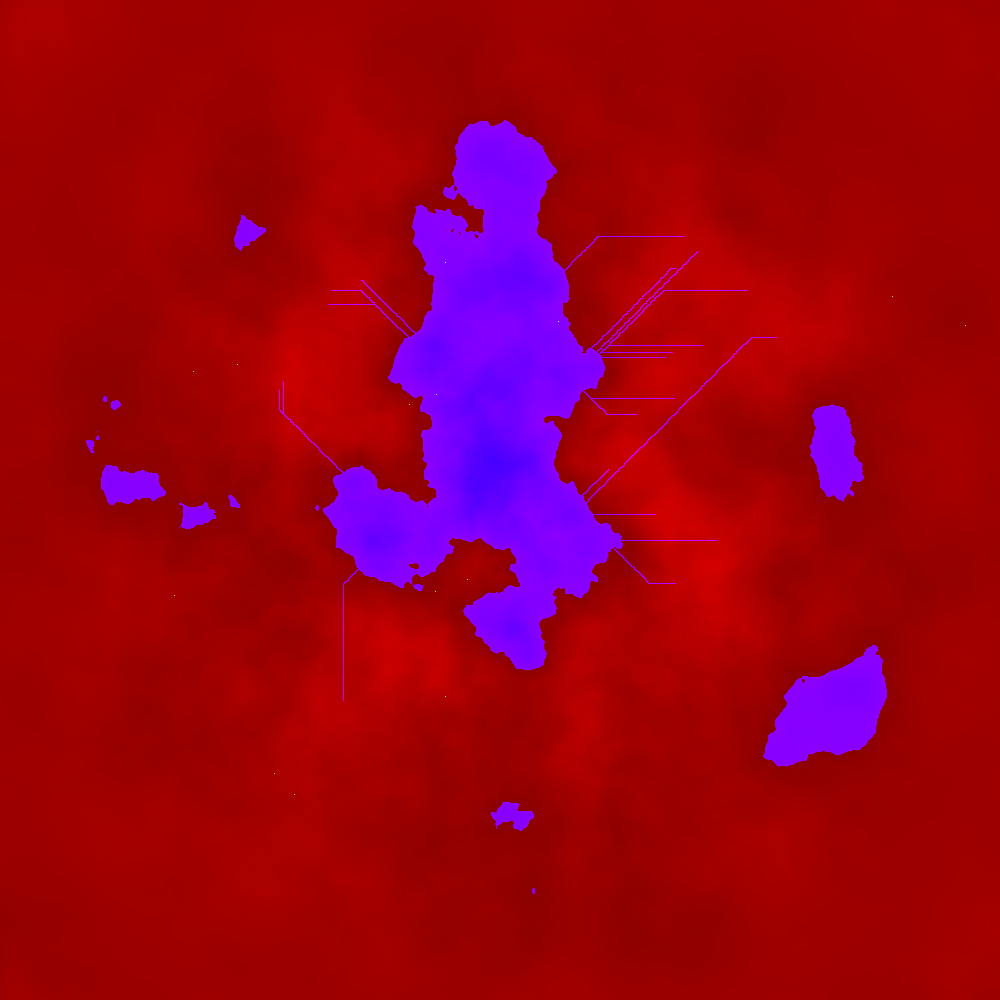
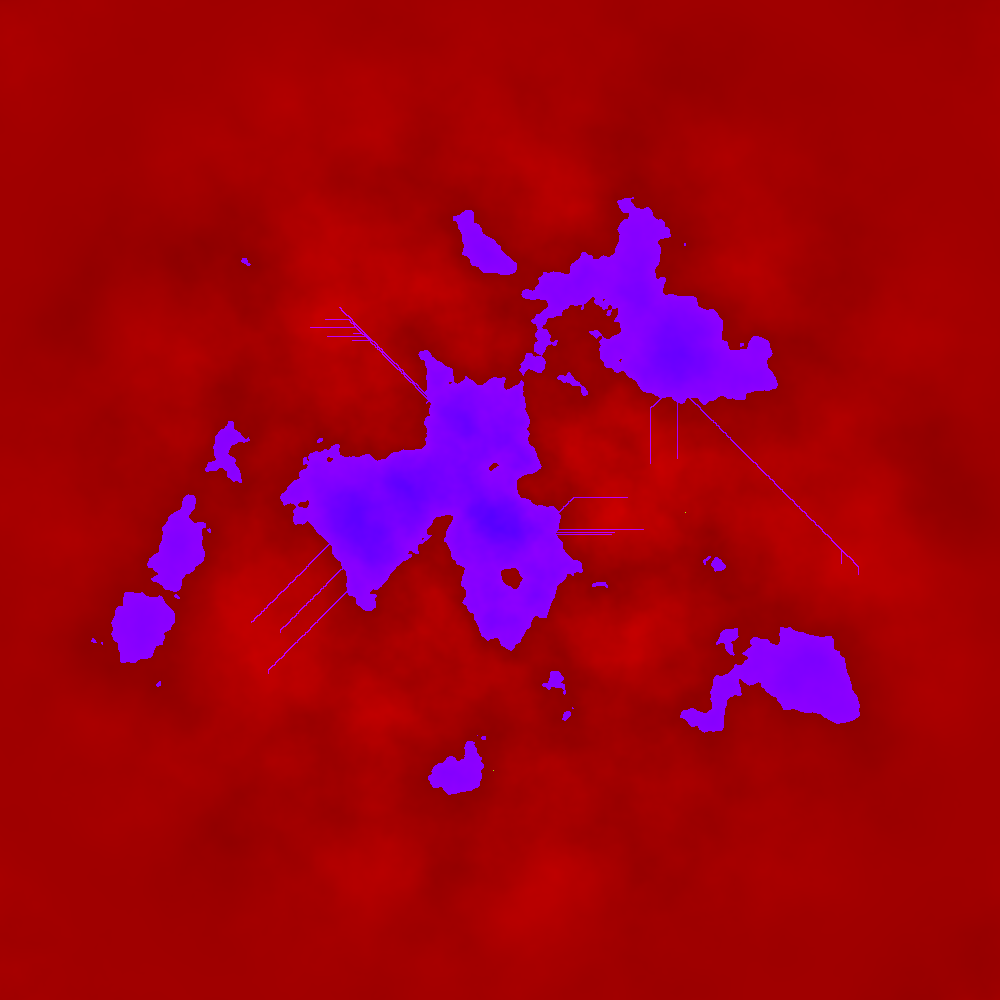
The Terrain Generator has been glued
Connected in THEGLUE.py

diff --git a/Train Simulation/Python/image_generation/terrainGeneration.py b/Train Simulation/Python/image_generation/terrainGeneration.py
@@ -127,6 +127,7 @@ def generate_rivers(terrain, num_rivers, river_threshold):
 def generate_population(terrain, rivers, num_clusters, growth_steps, growth_probability):
     print("Generating Population...")
     height, width = terrain.shape
+    global population
     population = np.zeros((height, width))
     
     i = 0
@@ -199,101 +200,126 @@ def prep_world(world):
     return world
 
 
-#importing settings from Godot
+def main():
+    #importing settings from Godot
 
-# COMMENT OUT 205 FOR VSCODE, WHEN USING COMMAND PROMPT, COMMENT ABOUT 206
-thisPath = os.getcwd()
-#thisPath = os.getcwd() + "\\Desktop\\Documents\\GitHub\\Train-Simulator\\Train Simulation\\Python\\image_generation"
+    # COMMENT OUT 205 FOR VSCODE, WHEN USING COMMAND PROMPT, COMMENT ABOUT 206
+    thisPath = os.getcwd()
+    #thisPath = os.getcwd() + "\\Desktop\\Documents\\GitHub\\Train-Simulator\\Train Simulation\\Python\\image_generation"
 
-loadingFile = open(os.path.abspath(os.path.join(thisPath, os.pardir)) + "\\loadingCommunication.txt", "w")
-loadingFile.write("")
-loadingFile.close()
+    loadingFilePath = os.path.expanduser( "~" ) + "\\AppData\\Roaming\\Godot\\app_userdata\\Train Simulation\\loadingCommunication.bin"
+    
+    loadingFile = open(loadingFilePath, "w")
+    loadingFile.write("")
+    loadingFile.close()
 
-file = open("C:\\Users\\bbsaw\\AppData\\Roaming\\Godot\\app_userdata\\Train Simulation\\settings.bin")
-settings = json.load(file)
+    file = open("C:\\Users\\bbsaw\\AppData\\Roaming\\Godot\\app_userdata\\Train Simulation\\settings.bin")
+    global settings
+    settings = json.load(file)
 
-file.close()
+    file.close()
 
-loadingFile = open(os.path.abspath(os.path.join(thisPath, os.pardir)) + "\\loadingCommunication.txt", "a")
-loadingFile.write("0")
-loadingFile.close()
+    # loadingFile = open(loadingFilePath, "a")
+    # loadingFile.write("0")
+    # loadingFile.close()
 
-shape = (1000,1000)
-scale = settings['noiseScale']
-octaves = settings['octaves']
-persistence = 0.5
-lacunarity = float(settings['lacunarity'])
-seed = settings['seed']
-print(seed)
-world = np.zeros(shape)
-for i in range(shape[0]):
-    for j in range(shape[1]):
-        world[i][j] = noise.pnoise2(i/scale, 
-                                    j/scale, 
-                                    octaves=octaves, 
-                                    persistence=persistence, 
-                                    lacunarity=lacunarity, 
-                                    repeatx=1000, 
-                                    repeaty=1000, 
-                                    base=seed)
-        
-center_x, center_y = shape[1] // 2, shape[0] // 2
-circle_grad = np.zeros_like(world)
-for y in range(world.shape[0]):
-    for x in range(world.shape[1]):
-        distx = abs(x - center_x)
-        disty = abs(y - center_y)
-        dist = math.sqrt(distx*distx + disty*disty)
-        circle_grad[y][x] = dist
-# get it between -1 and 1
-max_grad = np.max(circle_grad)
-circle_grad = circle_grad / max_grad
-circle_grad -= 0.8
-circle_grad *= 1.2
-circle_grad = -circle_grad
-world_noise = np.zeros_like(world)
-for i in range(shape[0]):
-    for j in range(shape[1]):
-        #if circle_grad[i][j] > 0:
-        world_noise[i][j] = (world[i][j] * circle_grad[i][j])
-print("Terrain Generated!")
+    global shape
+    shape = (1000,1000)
+    scale = settings['noiseScale']
+    octaves = settings['octaves']
+    persistence = 0.5
+    lacunarity = float(settings['lacunarity'])
+    seed = settings['seed']
+    cities_amt = settings['cities_amt']
+    
+    print(seed)
+    world = np.zeros(shape)
+    for i in range(shape[0]):
+        for j in range(shape[1]):
+            world[i][j] = noise.pnoise2(i/scale, 
+                                        j/scale, 
+                                        octaves=octaves, 
+                                        persistence=persistence, 
+                                        lacunarity=lacunarity, 
+                                        repeatx=1000, 
+                                        repeaty=1000, 
+                                        base=seed)
+            
+    center_x, center_y = shape[1] // 2, shape[0] // 2
+    circle_grad = np.zeros_like(world)
+    for y in range(world.shape[0]):
+        for x in range(world.shape[1]):
+            distx = abs(x - center_x)
+            disty = abs(y - center_y)
+            dist = math.sqrt(distx*distx + disty*disty)
+            circle_grad[y][x] = dist
+    # get it between -1 and 1
+    max_grad = np.max(circle_grad)
+    circle_grad = circle_grad / max_grad
+    circle_grad -= 0.8
+    circle_grad *= 1.2
+    circle_grad = -circle_grad
+    world_noise = np.zeros_like(world)
+    for i in range(shape[0]):
+        for j in range(shape[1]):
+            #if circle_grad[i][j] > 0:
+            world_noise[i][j] = (world[i][j] * circle_grad[i][j])
+    print("Terrain Generated!")
 
-loadingFile = open(os.path.abspath(os.path.join(thisPath, os.pardir)) + "\\loadingCommunication.txt", "a")
-loadingFile.write("1")
-loadingFile.close()
+    loadingFile = open(loadingFilePath, "w")
+    loadingInfo = {
+        "loadingProgress" : 1
+    }
+    
+    json.dump(loadingInfo, loadingFile)
+    loadingFile.close()
 
-lightblue = [0,191,255]
-blue = [65,105,225]
-green = [34,139,34]
-darkgreen = [0,100,0]
-sandy = [210,180,140]
-beach = [238, 214, 175]
-snow = [255, 250, 250]
-mountain = [139, 137, 137]
-threshold = 50
-rivers = generate_rivers(world_noise.copy(), 20, 0.1)
+    lightblue = [0,191,255]
+    blue = [65,105,225]
+    green = [34,139,34]
+    darkgreen = [0,100,0]
+    sandy = [210,180,140]
+    beach = [238, 214, 175]
+    snow = [255, 250, 250]
+    mountain = [139, 137, 137]
+    global threshold
+    threshold = 50
+    rivers = generate_rivers(world_noise.copy(), 20, 0.1)
 
-loadingFile = open(os.path.abspath(os.path.join(thisPath, os.pardir)) + "\\loadingCommunication.txt", "a")
-loadingFile.write("2")
-loadingFile.close()
+    loadingFile = open(loadingFilePath, "w")
+    loadingInfo = {
+        "loadingProgress" : 2
+    }
+    
+    json.dump(loadingInfo, loadingFile)
+    loadingFile.close()
 
-population = generate_population(world_noise.copy(), rivers, settings["cities_amt"], 100, 0.9).astype(np.uint8)
-loadingFile = open(os.path.abspath(os.path.join(thisPath, os.pardir)) + "\\loadingCommunication.txt", "a")
-loadingFile.write("3")
-loadingFile.close()
+    population = generate_population(world_noise.copy(), rivers, cities_amt, 1, .1)
+    
+    loadingFile = open(loadingFilePath, "w")
+    loadingInfo = {
+        "loadingProgress" : 3
+    }
+    
+    json.dump(loadingInfo, loadingFile)
+    loadingFile.close()
 
-heightmap_grad = prepareChannel(prep_world(world_noise)).astype(np.uint8)
-heightmap = Image.fromarray(heightmap_grad)
-rivermap = Image.fromarray(rivers.astype(np.uint8))
-#rivermap.save("rivermap.png")
-populationMap = Image.fromarray(population.astype(np.uint8))
-#populationMap.save("populationmap.png")
-heightmap = heightmap.convert("L")
-informationMap = Image.merge("RGB", (heightmap, populationMap, rivermap))
-informationMap.save(thisPath + "\\informationMap.png")
-#informationMap.show()
-#Image.fromarray(add_color2(informationMap).astype(np.uint8)).show()
+    heightmap_grad = prepareChannel(prep_world(world_noise)).astype(np.uint8)
+    heightmap = Image.fromarray(heightmap_grad)
+    rivermap = Image.fromarray(rivers.astype(np.uint8))
+    #rivermap.save("rivermap.png")
+    populationMap = Image.fromarray(population.astype(np.uint8))
+    #populationMap.save("populationmap.png")
+    heightmap = heightmap.convert("L")
+    informationMap = Image.merge("RGB", (heightmap, populationMap, rivermap))
+    informationMap.save(thisPath + "\\informationMap.png")
+    #informationMap.show()
+    #Image.fromarray(add_color2(informationMap).astype(np.uint8)).show()
 
-loadingFile = open(os.path.abspath(os.path.join(thisPath, os.pardir)) + "\\loadingCommunication.txt", "a")
-loadingFile.write("4")
-loadingFile.close()
+    loadingFile = open(loadingFilePath, "w")
+    loadingInfo = {
+        "loadingProgress" : 4
+    }
+    
+    json.dump(loadingInfo, loadingFile)
+    loadingFile.close()

diff --git a/Train Simulation/THEGLUE.py b/Train Simulation/THEGLUE.py
@@ -1,5 +1,58 @@
 import subprocess
+from Python.image_generation import terrainGeneration
 import os
+import json
+import threading
 
-print(os.path.abspath(os.path.join(os.getcwd(), os.pardir)) + "\\TrainerdsBuilt.exe")
-os.system("\"" + os.path.abspath(os.path.join(os.getcwd(), os.pardir)) + "\\TrainerdsBuilt.console.exe\"")
+def startGodotProject():
+    print(os.path.abspath(os.path.join(os.getcwd(), os.pardir)) + "\\TrainerdsBuilt.exe")
+    os.system("\"" + os.path.abspath(os.path.join(os.getcwd(), os.pardir)) + "\\TrainerdsBuilt.console.exe\"")
+    
+godotThread = threading.Thread(target=startGodotProject)
+
+godotThread.start()
+
+print("Bonjour")
+i = 0
+
+instructionFilePath = os.path.expanduser( "~" ) + "\\AppData\\Roaming\\Godot\\app_userdata\\Train Simulation\\loadingCommunication.bin"
+
+loadingFile = open(instructionFilePath, "w")
+loadingInfo = {
+    "loadingProgress" : 0
+}
+
+json.dump(loadingInfo, loadingFile)
+loadingFile.close()
+    
+def loadLoadingInfo():
+    loadingFile = open(instructionFilePath)
+    #print(loadingFile)
+    loadingInfo = json.load(loadingFile)
+    #print(loadingInfo)
+    loadingState = loadingInfo['loadingProgress']
+    return loadingState
+    
+hasBegunTerrain = False
+
+#terrainGeneration.main()
+
+while True:
+    loadingState = loadLoadingInfo()
+    #print(instruction)
+    
+    match loadingState:
+        case 1:
+            if(not hasBegunTerrain):
+                terrainGeneration.main()
+                hasBegunTerrain = True
+                print("<---- TERRAIN IS BEING GENERATED, ALLELUJAH ----->")
+        case 2:
+            print(2)
+        case 3:
+            print(3)
+        case 4:
+            print(4)
+        case _:
+            pass
+    
